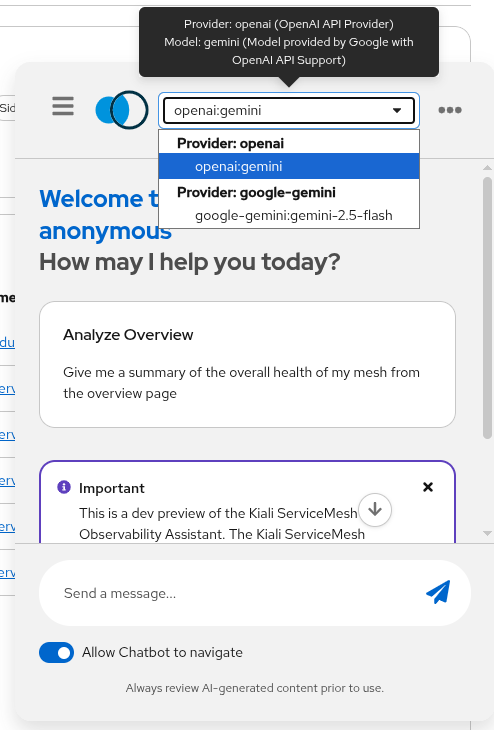
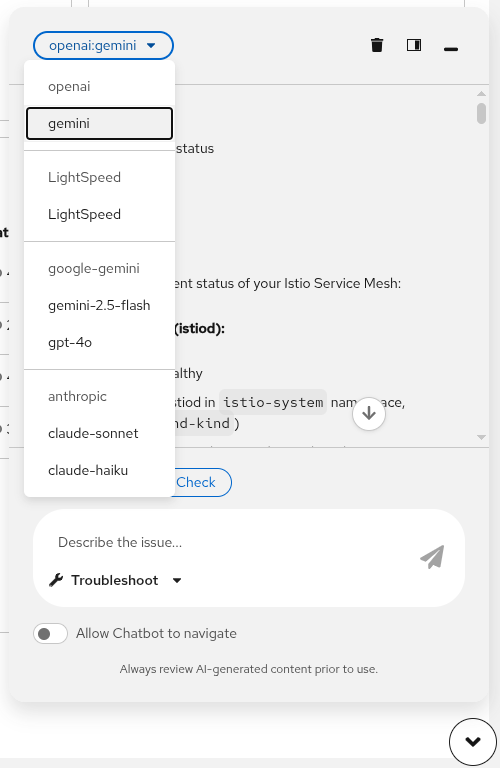
Update AI section (#986)
* Update AI section

diff --git a/content/en/docs/AI/kiali-chatbot.md b/content/en/docs/AI/kiali-chatbot.md
@@ -177,6 +177,16 @@ Examples of tasks that work well:
 - Basic observability questions (metrics, traces)
 - Troubleshooting workflows (get logs for a workload, identify failing namespaces)
 
+### Predefined prompts
+
+Kiali Chatbot displays a set of suggested prompts tailored to the page you are currently viewing. The suggestions change as you navigate between pages (Overview, Graph, Mesh, Namespaces, Applications, Services, Workloads, Istio Config), so the most relevant questions for your current context are always one click away.
+
+![ChatBot - Predefined prompts](/images/documentation/ai/kiali-predefined-prompts.png)
+
+The prompts are served by a built-in server-side catalog through the `GET /api/chat/prompts` endpoint. Use the optional `?category=<page>` query parameter to fetch prompts for a specific page. If the endpoint is unavailable, the chatbot falls back to a set of static prompts.
+
+Clicking a suggested prompt populates the message input so you can review or edit the text before sending it.
+
 ### Example prompts
 
 - “Show me the mesh graph for namespace `bookinfo`.”
